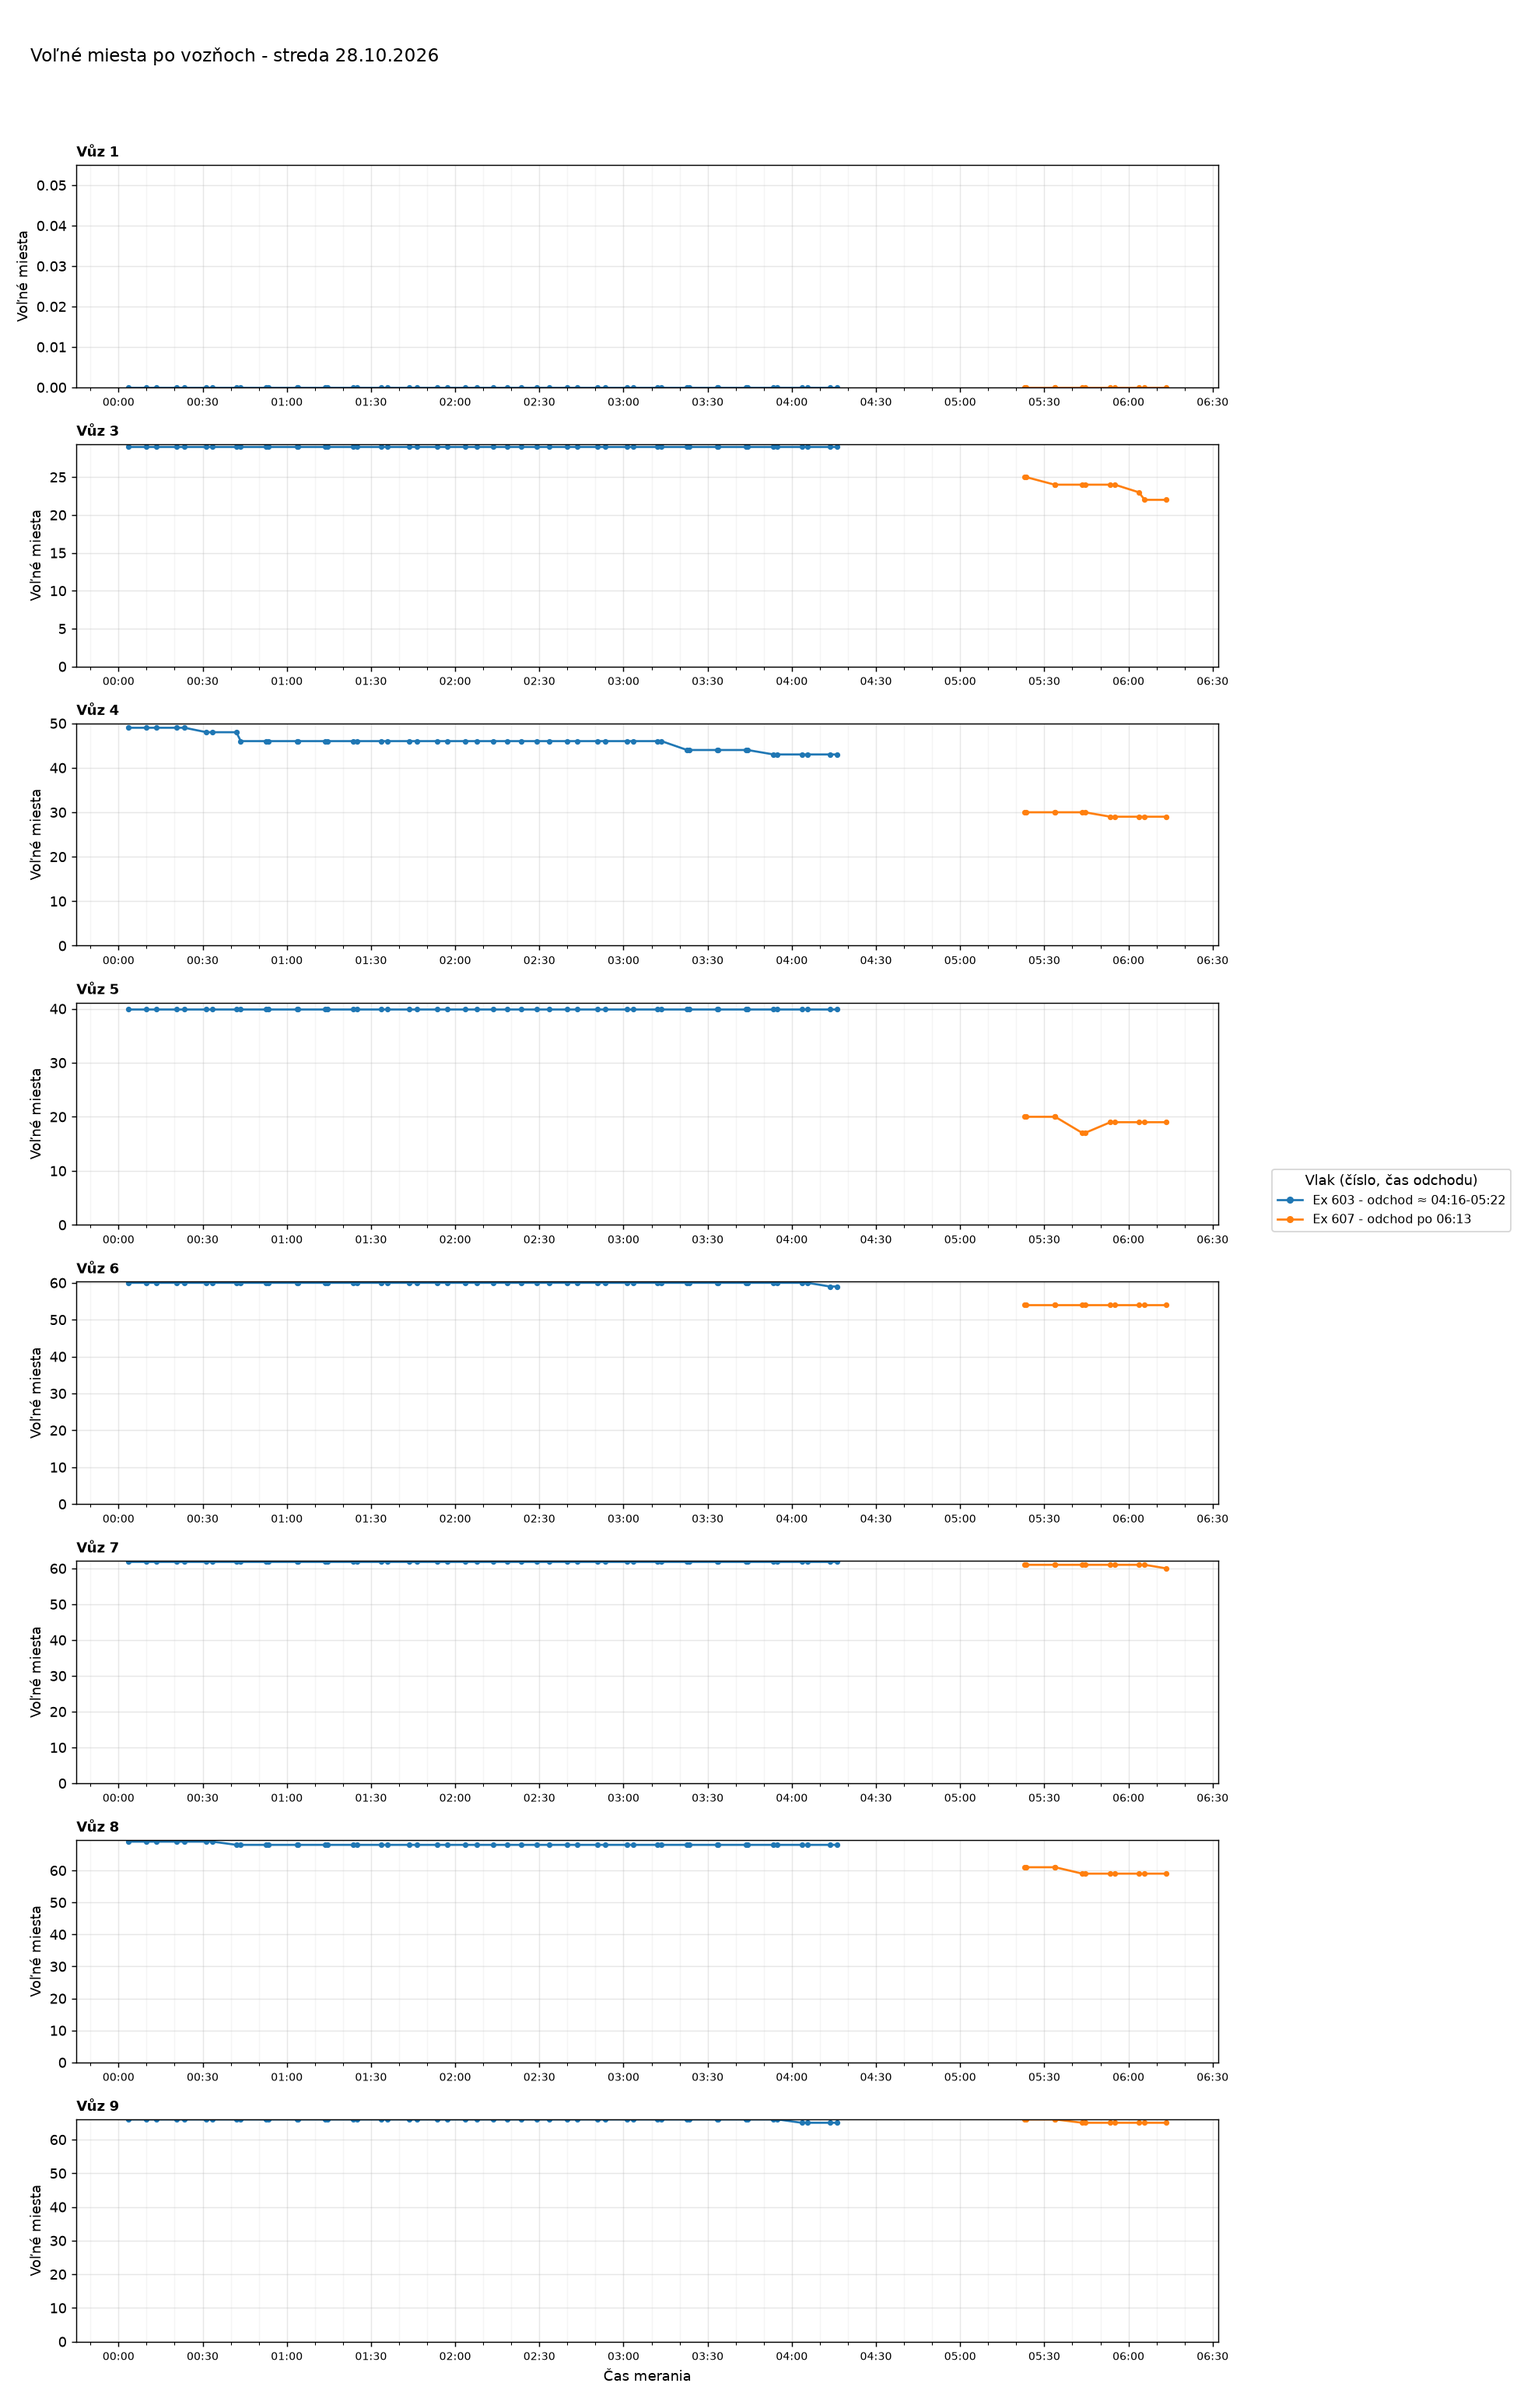
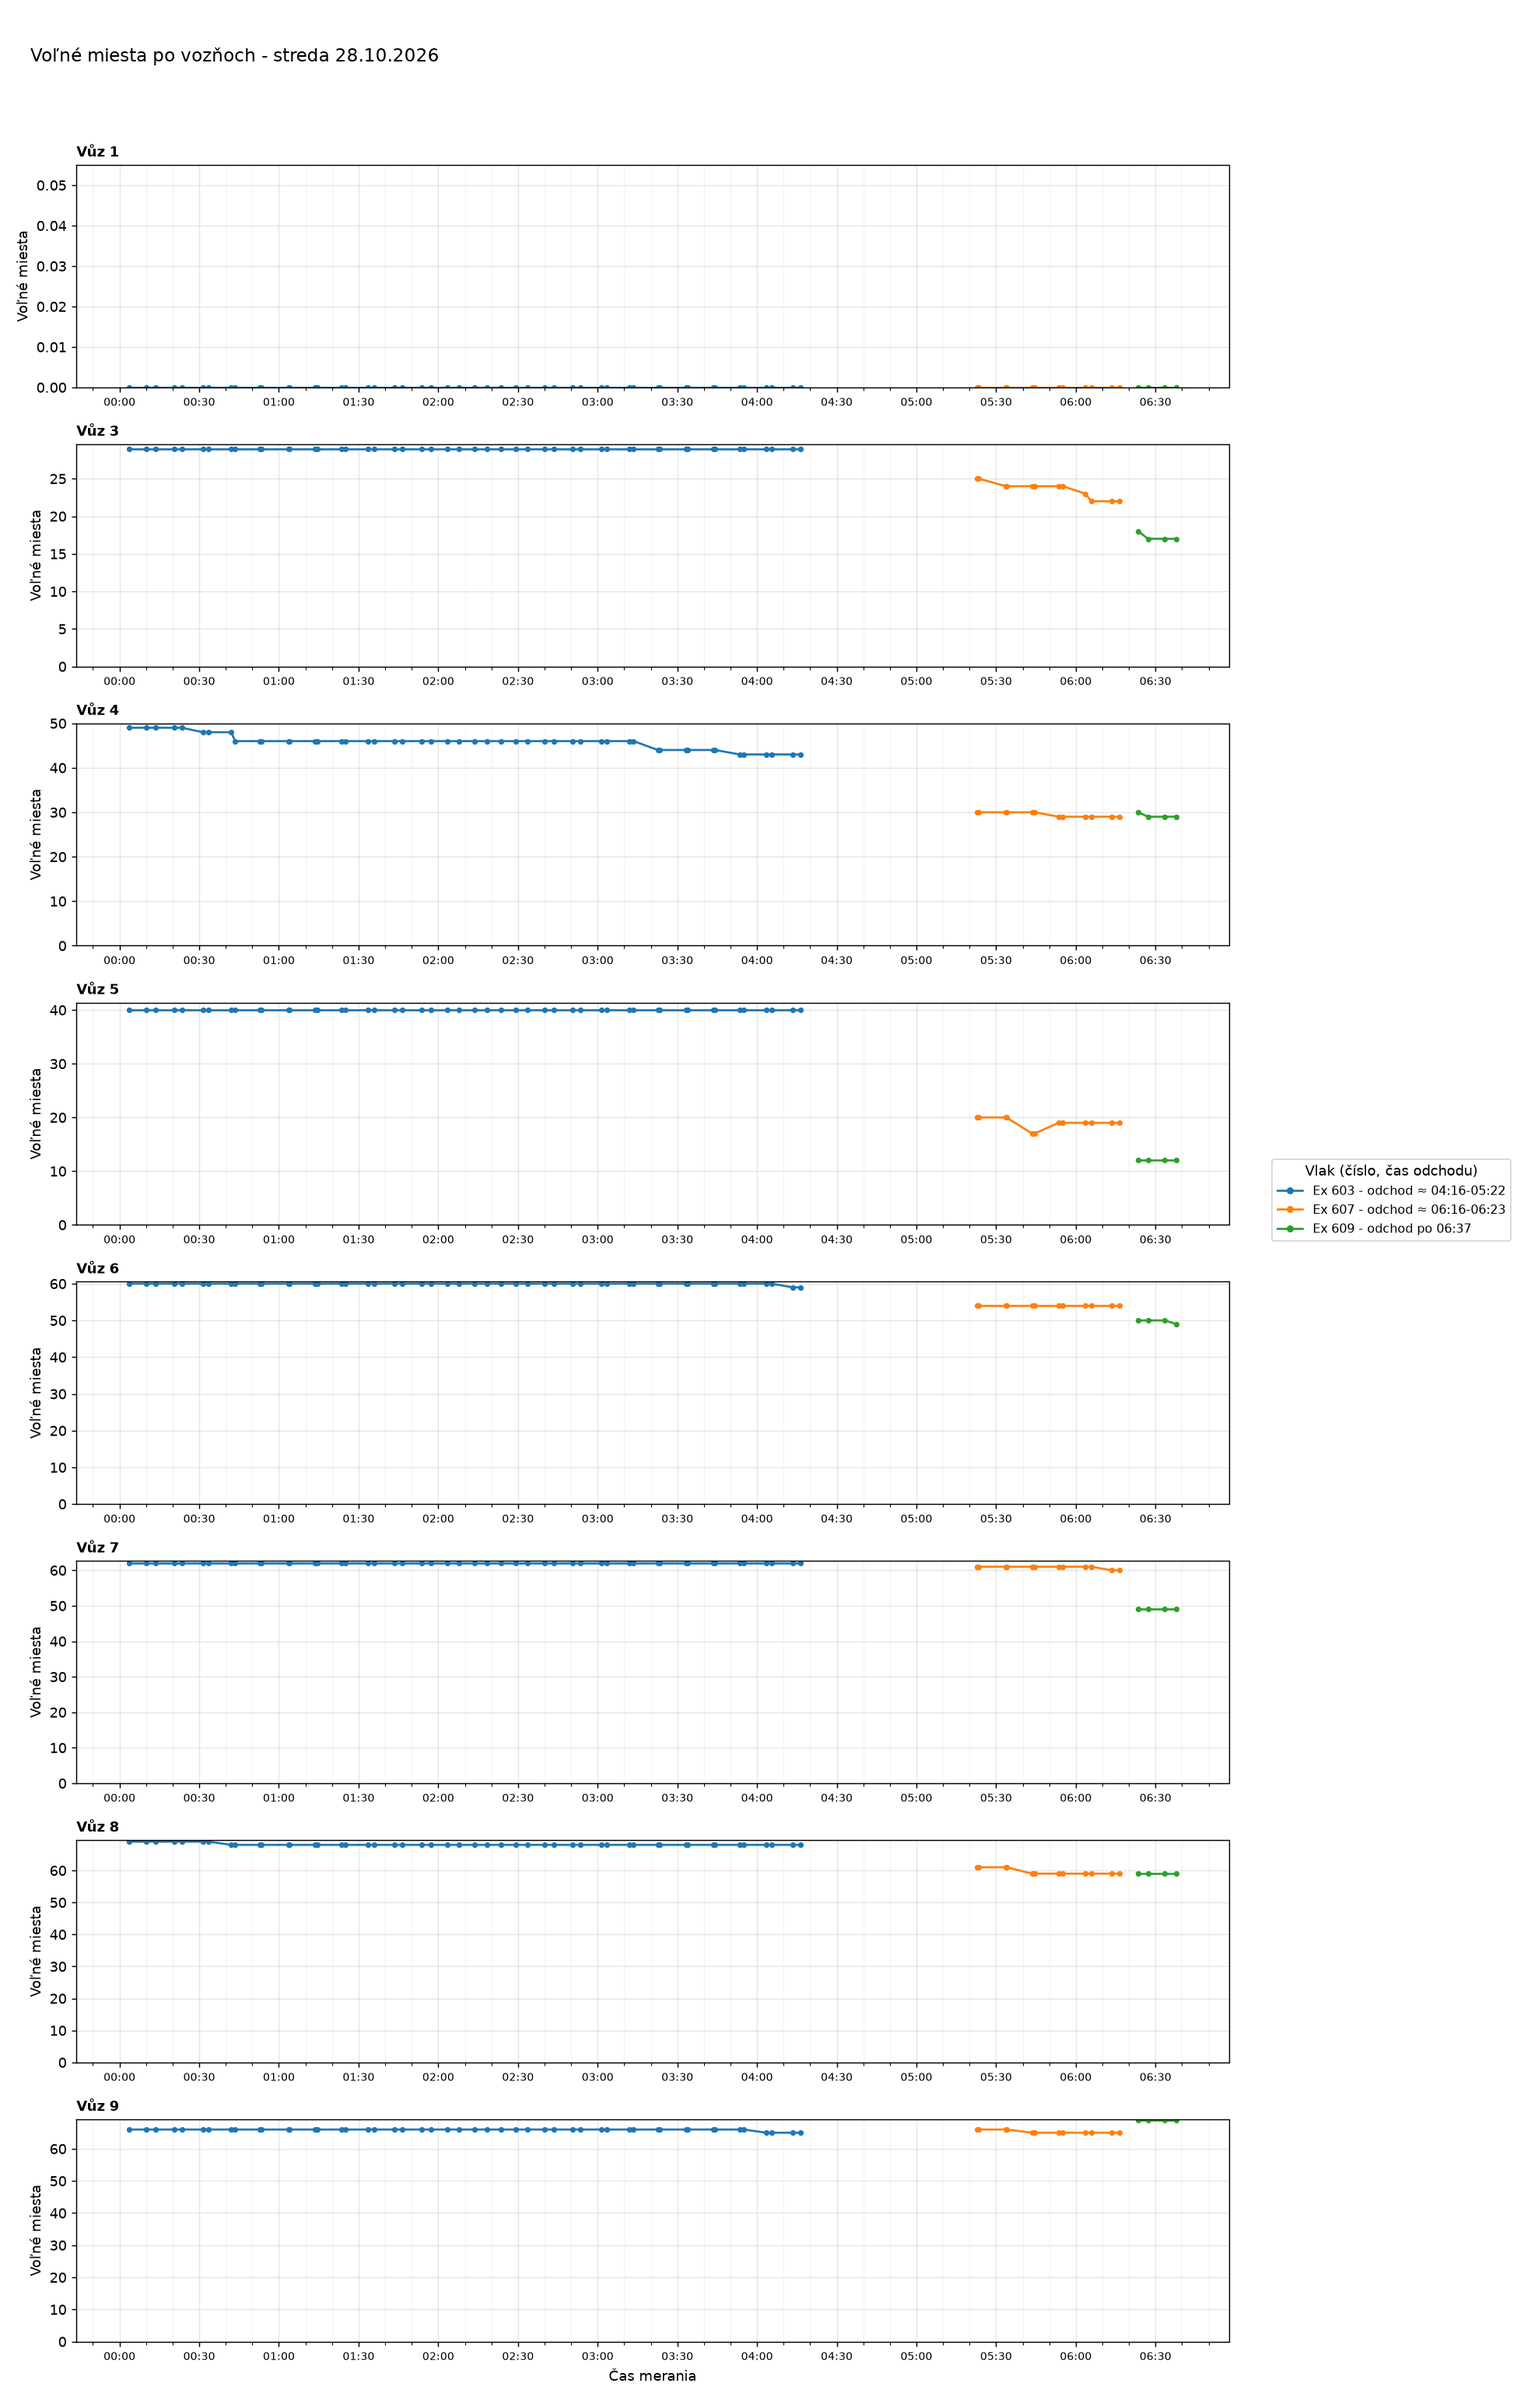
Aktualizácia grafov 2026-10-28 06:43

diff --git a/index.html b/index.html
@@ -35,7 +35,7 @@ h2.oddiel{margin:36px 0 0;font-size:1.4rem}
 <body>
 <main>
 <h1>Voľné miesta vo vlakoch</h1>
-<p class="muted">Posledné meranie: 28.10.2026 06:13 ·
+<p class="muted">Posledné meranie: 28.10.2026 06:37 ·
 <a href="data/obsadenost_data.csv">stiahnuť dáta (CSV)</a></p>
 <nav class="nav"><a href="#suhrn">Súhrn</a><a href="#statistiky">Štatistiky</a><a href="#historia">História grafov</a></nav>
 
@@ -44,7 +44,7 @@ h2.oddiel{margin:36px 0 0;font-size:1.4rem}
 <div class="tablewrap"><table>
 <thead><tr><th>Deň</th><th>Meraní</th><th>Vlakov</th><th>Čas meraní</th></tr></thead>
 <tbody>
-<tr><td><a href="#d2026-10-28">streda 28.10.2026</a></td><td>61</td><td>2</td><td>00:03-06:13</td></tr>
+<tr><td><a href="#d2026-10-28">streda 28.10.2026</a></td><td>66</td><td>3</td><td>00:03-06:37</td></tr>
 <tr><td><a href="#d2026-10-27">utorok 27.10.2026</a></td><td>99</td><td>11</td><td>00:01-23:59</td></tr>
 <tr><td><a href="#d2026-10-26">pondelok 26.10.2026</a></td><td>88</td><td>14</td><td>00:06-23:50</td></tr>
 <tr><td><a href="#d2026-10-25">nedeľa 25.10.2026</a></td><td>101</td><td>15</td><td>00:01-23:56</td></tr>
